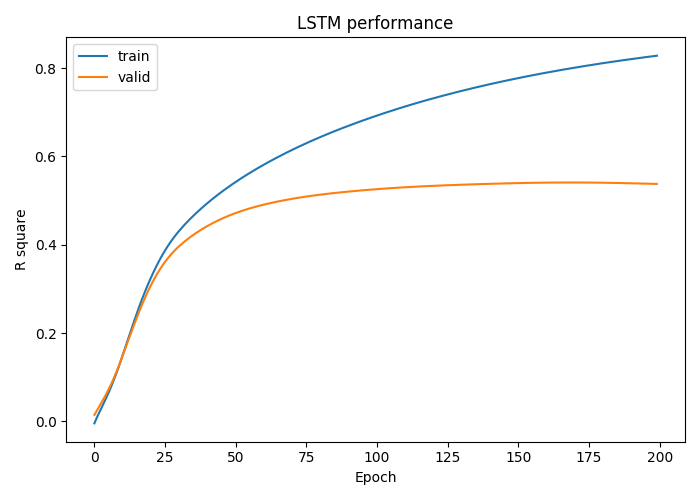
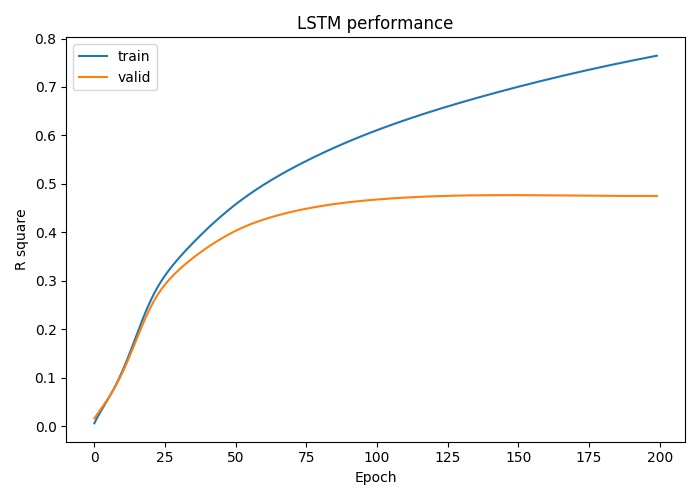
update figs

diff --git a/Python_code/Pytorch/ITPC/ITPC_LSTM.py b/Python_code/Pytorch/ITPC/ITPC_LSTM.py
@@ -351,7 +351,7 @@ for k in range(new_training_x.size(0)):
 
     for i in range(96):
         # pass
-        # new_training_x[k,-2]=abs(new_training_x[k,-2])
+        new_training_x[k,-2]=abs(new_training_x[k,-2])
 
         # Phase-of-Firing
 
@@ -362,14 +362,14 @@ for k in range(new_training_x.size(0)):
         # new_training_x[k,i]=new_training_x[k,i]*new_training_x[k,-2]*new_training_x[k,-1]        
 
         # Concatenate
-        new_training_x[k,-2]=abs(new_training_x[k,-2])
+        # new_training_x[k,-2]=abs(new_training_x[k,-2])
         # new_training_x[k,-2]=abs(new_training_x[k,-2])*new_training_x[k,-1]
 
 
 for k in range(new_testing_x.size(0)):
     for i in range(96):
         # pass
-        # new_testing_x[k,-2]=abs(new_testing_x[k,-2])
+        new_testing_x[k,-2]=abs(new_testing_x[k,-2])
 
         # Phase-of-Firing
 
@@ -380,11 +380,11 @@ for k in range(new_testing_x.size(0)):
         # new_testing_x[k,i]=new_testing_x[k,i]*new_testing_x[k,-2]*new_testing_x[k,-1]
 
         # Concatenate
-        new_testing_x[k,-2]=abs(new_testing_x[k,-2])
+        # new_testing_x[k,-2]=abs(new_testing_x[k,-2])
         # new_testing_x[k,-2]=abs(new_testing_x[k,-2])*new_testing_x[k,-1]
 
-new_training_x=new_training_x[:,:97]
-new_testing_x=new_testing_x[:,:97]
+new_training_x=new_training_x[:,:]
+new_testing_x=new_testing_x[:,:]
 
 
 # Neural Network
